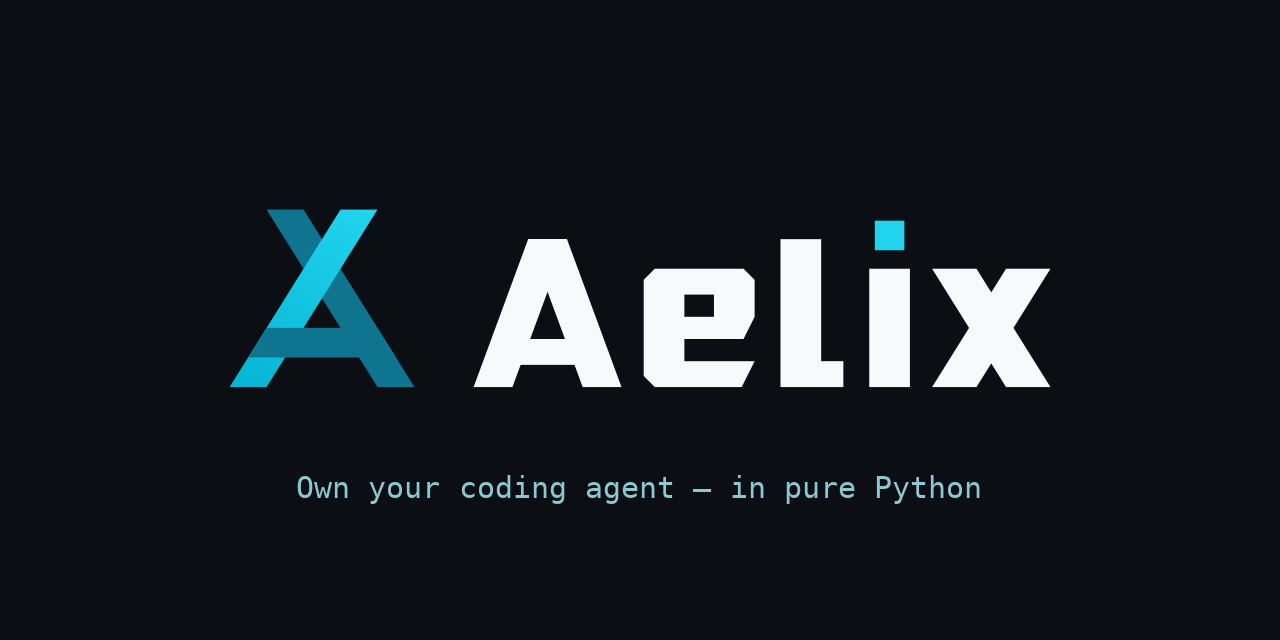
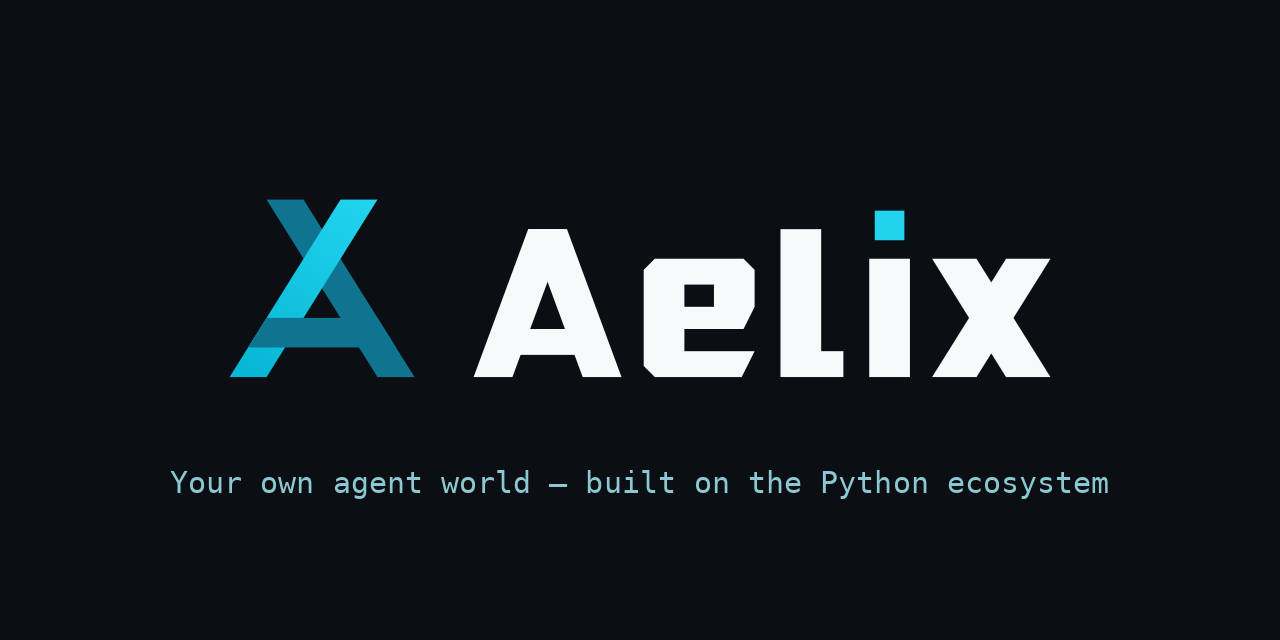
docs(readme): brand lockup header + universal agent-runtime repositioning
Add the light/dark lockup via <picture> to both READMEs and retire the
"coding agent" framing per docs/01-product-vision.md: Aelix is an agent
runtime and extension platform in pure Python; the terminal agent is its
first workload, not its boundary. New shared tagline ("Your own agent
world — built on the Python ecosystem") applied to the hero and the
regenerated social card. Also fixes two stray edit artifacts (o0Read,
&amp;) and a typo in the vision doc.

diff --git a/README.md b/README.md
@@ -1,9 +1,14 @@
-# Aelix
+<p align="center">
+  <picture>
+    <source media="(prefers-color-scheme: dark)" srcset="docs/assets/brand/lockup-dark.svg">
+    <img src="docs/assets/brand/lockup-light.svg" width="440" alt="Aelix — the A×X mark and wordmark">
+  </picture>
+</p>
 
-**Own your coding agent — in pure Python.**
+**Your own agent world — built on the Python ecosystem.**
 
-Self-hosted, auditable, and extensible in the language your team already writes — on the
-model budgets you already pay for.
+An agent runtime and extension platform in pure Python — self-hosted, auditable, and
+extensible in the language your team already writes, on the model budgets you already pay for.
 
 [한국어 README →](README.ko.md)
 
@@ -15,10 +20,11 @@ model budgets you already pay for.
 </p>
 <p align="center"><em>The agent extends itself: it authors a pandas <code>describe_dataset</code> tool into <code>my_ext.py</code>, <code>/reload</code> hot-loads it without restarting, and the very next prompt runs it in-process. Waits are fast-forwarded.</em></p>
 
-Aelix is an open-source coding agent written in pure Python. Read every line it runs, keep it
-entirely inside your own perimeter, and extend it with plain Python functions that import your
-existing stack — pandas, an internal SDK, a warehouse client — directly, in-process: the
-reason data and ML teams reach for it first. And it never phones home.
+Aelix ships today as a terminal agent built on that runtime — its first workload, not its
+boundary. Read every line it runs, keep it entirely inside your own perimeter, and extend it
+with plain Python functions that import your existing stack — pandas, an internal SDK, a
+warehouse client — directly, in-process: the reason data and ML teams reach for it first.
+And it never phones home.
 
 ---
 
@@ -34,7 +40,7 @@ reason data and ML teams reach for it first. And it never phones home.
   metered ACUs, no new vendor.
 - 🔏 **Signed supply chain.** Extensions are verified with Ed25519 provenance and SHA-256
   pinning (`extension keygen | sign | trust`, fail-closed `--require-signature`), installable
-  from an offline catalog. Uncommon in coding agents; native here.
+  from an offline catalog. Uncommon in agent tooling; native here.
 - 🔍 **Auditable & self-hosted.** Fully open source, no telemetry, air-gap-ready `--offline`
   mode. Trust lives in code you can read — the answer to *"why run an agent I didn't write?"*
 - 🧩 **Extensible to the core.** A small kernel where even policy, permissions, and guardrails
@@ -83,15 +89,15 @@ adapter), so provider-specific details (Anthropic thinking-block replay, per-mod
 `/responses` vs `/chat/completions` routing, Copilot enterprise host resolution) are
 preserved rather than flattened.
 
-| Provider | Status |
-|---|---|
-| Anthropic (Messages) | ✅ supported |
-| OpenAI (chat completions) | ✅ supported |
-| OpenRouter | ✅ supported |
-| GitHub Copilot (individual / Business / Enterprise) | ✅ supported |
-| OpenAI Responses API | 🧪 experimental |
-| Google Gemini / Vertex | 🧪 experimental |
-| Cloudflare Workers AI | 🧪 experimental |
+| Provider                                            | Status          |
+| --------------------------------------------------- | --------------- |
+| Anthropic (Messages)                                | ✅ supported    |
+| OpenAI (chat completions)                           | ✅ supported    |
+| OpenRouter                                          | ✅ supported    |
+| GitHub Copilot (individual / Business / Enterprise) | ✅ supported    |
+| OpenAI Responses API                                | 🧪 experimental |
+| Google Gemini / Vertex                              | 🧪 experimental |
+| Cloudflare Workers AI                               | 🧪 experimental |
 
 ## Extensions are just Python — call your data stack in-process
 

diff --git a/README.ko.md b/README.ko.md
@@ -1,9 +1,14 @@
-# Aelix
+<p align="center">
+  <picture>
+    <source media="(prefers-color-scheme: dark)" srcset="docs/assets/brand/lockup-dark.svg">
+    <img src="docs/assets/brand/lockup-light.svg" width="440" alt="Aelix — A×X 마크와 워드마크">
+  </picture>
+</p>
 
-**당신만의 코딩 에이전트를, 순수 파이썬으로.**
+**당신만의 에이전트 세계를, 파이썬 생태계 위에.**
 
-직접 호스팅하고, 모든 코드를 감사하고, 팀이 이미 쓰는 언어로 확장하세요 — 이미 지불하고
-있는 모델 예산 위에서.
+순수 파이썬으로 만든 에이전트 런타임이자 확장 플랫폼입니다 — 직접 호스팅하고, 모든 코드를
+감사하고, 팀이 이미 쓰는 언어로 확장하세요. 이미 지불하고 있는 모델 예산 위에서.
 
 [English README →](README.md)
 
@@ -15,7 +20,8 @@
 </p>
 <p align="center"><em>에이전트가 스스로를 확장합니다: pandas <code>describe_dataset</code> 툴을 <code>my_ext.py</code>에 직접 작성하고, <code>/reload</code>로 재시작 없이 핫리로드한 뒤, 바로 다음 프롬프트에서 in-process로 실행합니다. 대기 구간은 빨리감기 처리했습니다.</em></p>
 
-Aelix는 순수 파이썬으로 작성된 오픈소스 코딩 에이전트입니다. 실행되는 모든 코드를 직접 읽을
+Aelix는 오늘 이 런타임 위의 터미널 에이전트로 먼저 제공됩니다 — 첫 워크로드일 뿐, 경계가
+아닙니다. 실행되는 모든 코드를 직접 읽을
 수 있고, 에이전트 전체를 사내 경계 안에 두고 운영하며, 평범한 파이썬 함수로 확장합니다.
 확장은 in-process로 동작하므로 pandas·내부 SDK·웨어하우스 클라이언트 같은 기존 스택을
 그대로 import해 쓸 수 있습니다 — 데이터·ML 팀이 가장 먼저 찾는 이유입니다. 그리고 어떤
@@ -35,7 +41,7 @@ Aelix는 순수 파이썬으로 작성된 오픈소스 코딩 에이전트입니
   없습니다.
 - 🔏 **서명된 공급망.** 확장은 Ed25519 서명과 SHA-256 핀으로 검증됩니다(`extension keygen |
   sign | trust`, fail-closed `--require-signature`). 오프라인 카탈로그에서 설치할 수
-  있습니다. 코딩 에이전트에서 보기 드문 기능이지만, aelix에서는 기본입니다.
+  있습니다. 에이전트 도구에서 보기 드문 기능이지만, aelix에서는 기본입니다.
 - 🔍 **감사 가능한 자체 호스팅.** 완전한 오픈소스, 텔레메트리 없음, 폐쇄망을 위한
   `--offline` 모드. 신뢰는 직접 읽을 수 있는 코드에서 나옵니다 — *"내가 만들지 않은
   에이전트를 왜 돌리는가?"* 에 대한 답입니다.